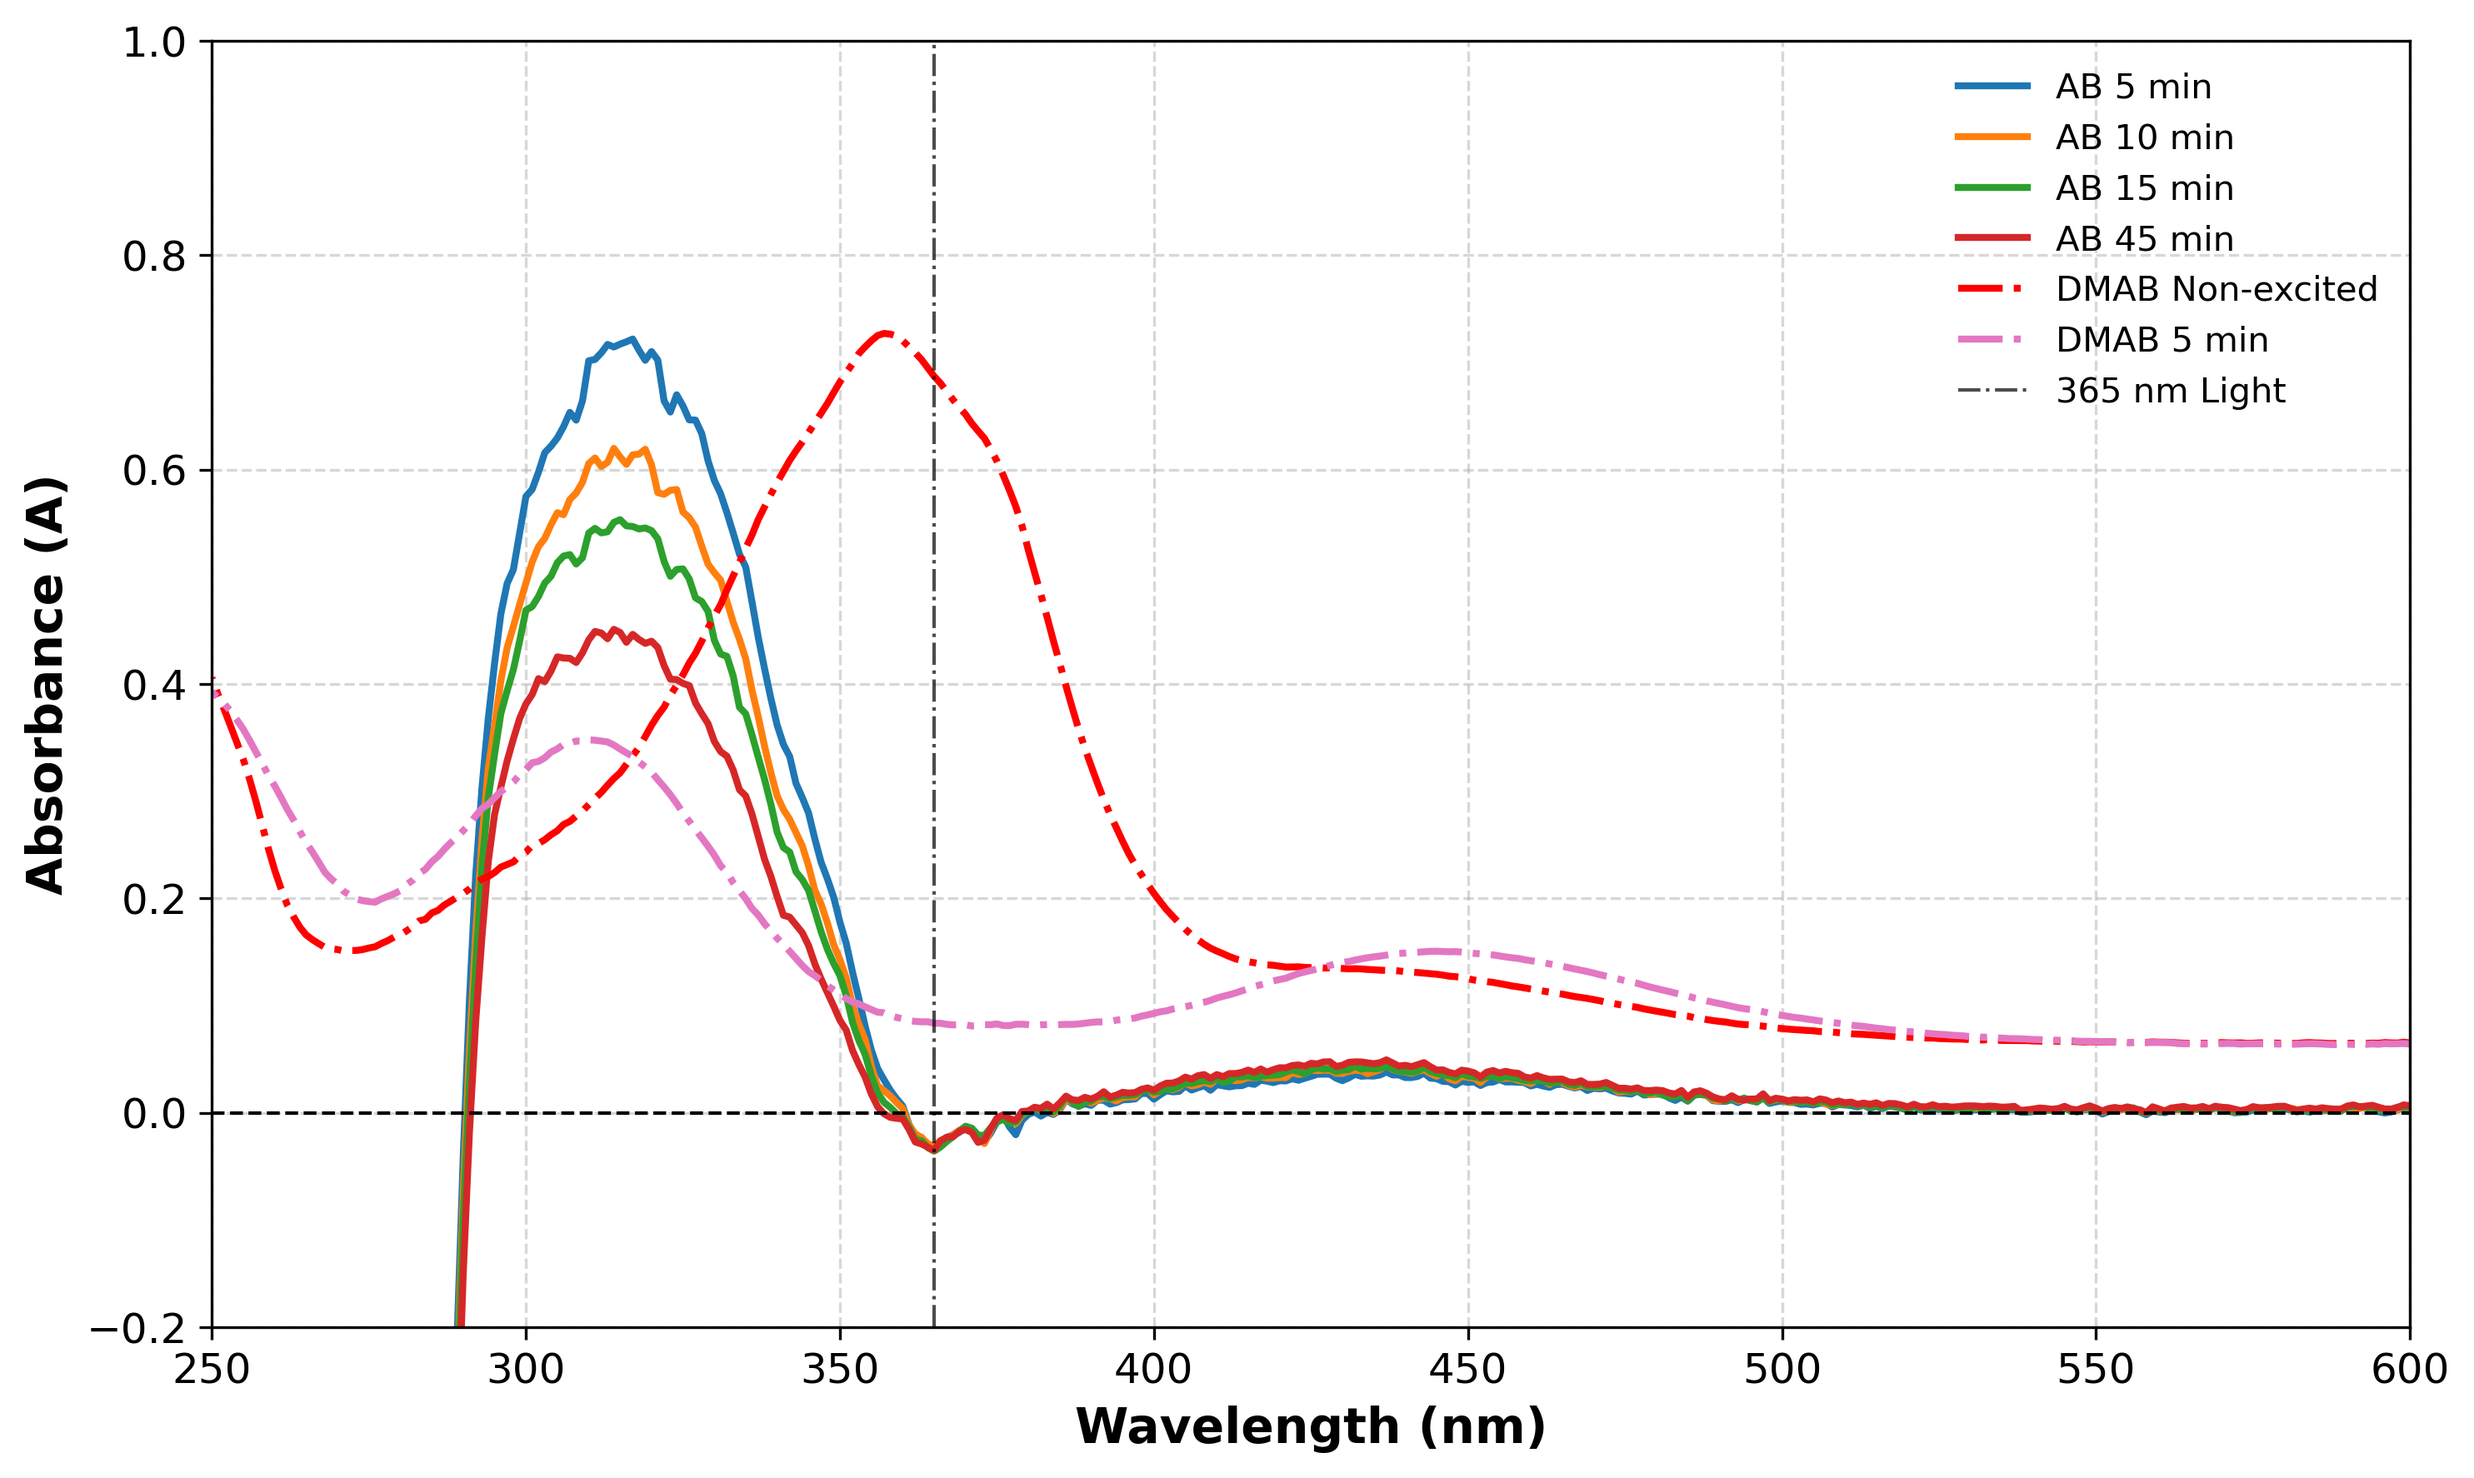
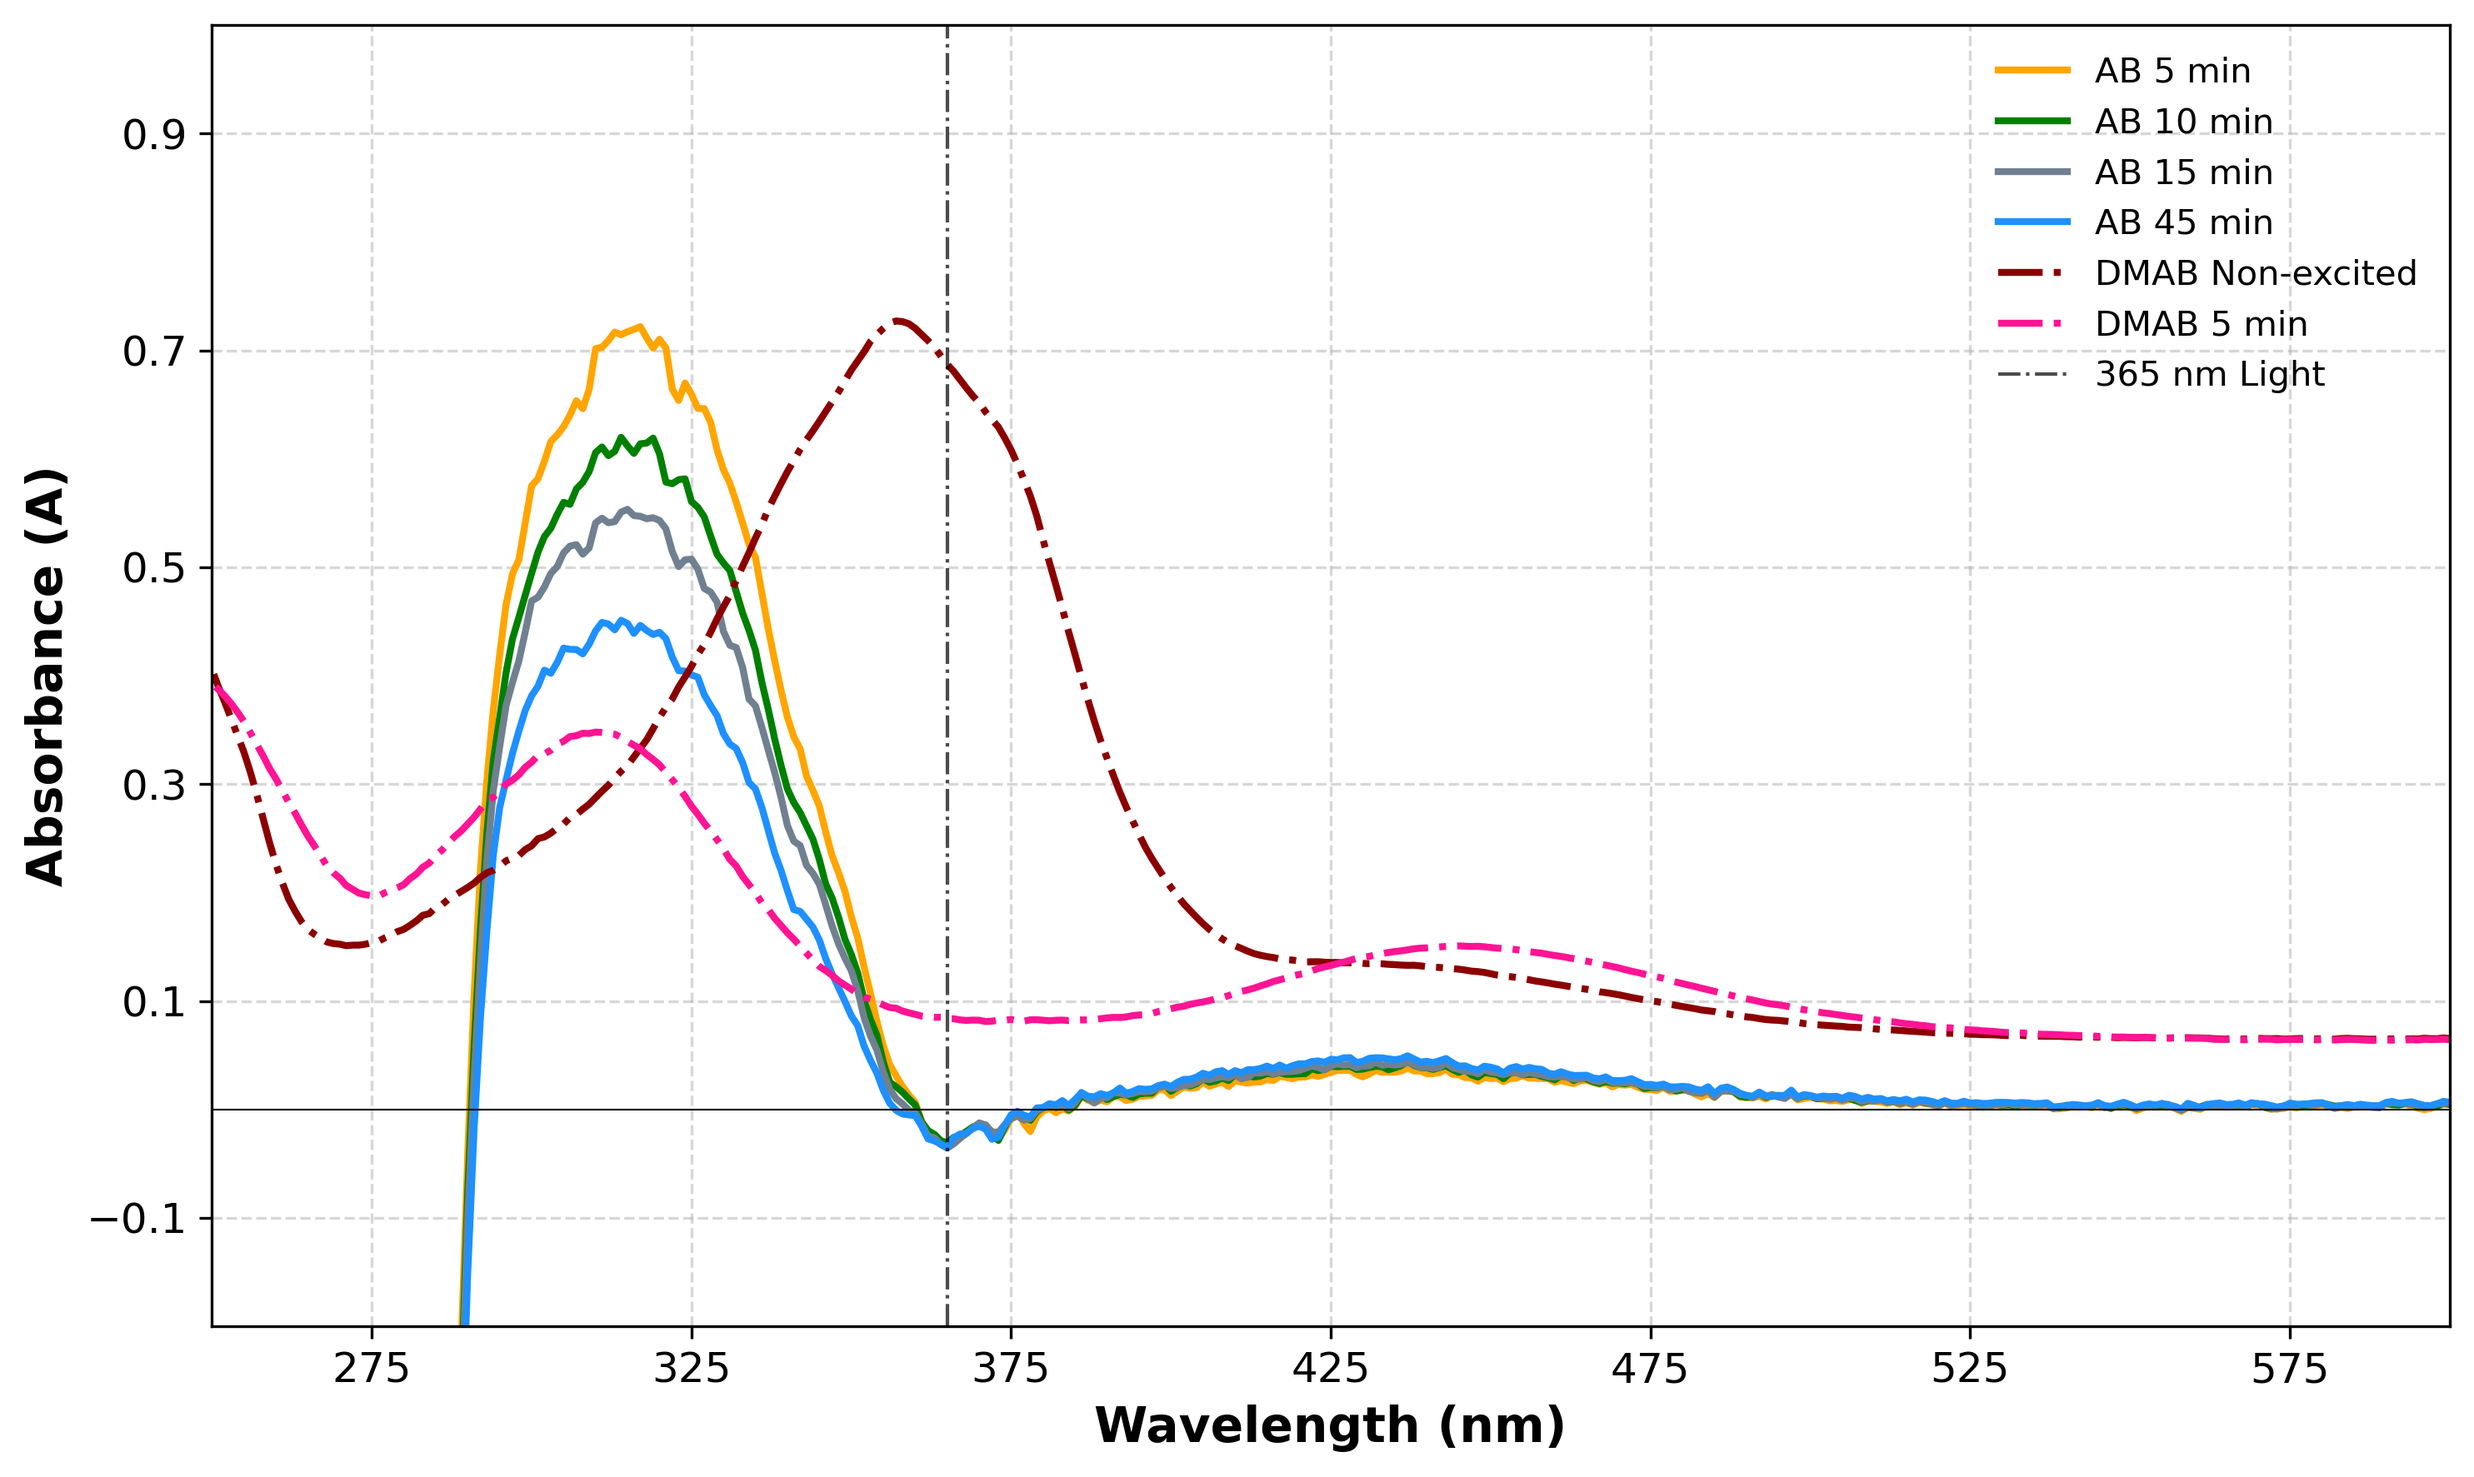
sync

diff --git a/report_plotting_final.py b/report_plotting_final.py
@@ -12,32 +12,32 @@ data_ab_45min = read_csv(r"Data/UV-aB/365nmn/aB 50uM 45min 365nm.Sample.Raw.csv"
 data_ab_60min = read_csv(r"Data/UV-aB/365nmn/aB 50um 60min 365nm.Sample.Raw.csv", base_line=True, base_line_path=baseline_path_ab)
 
 # Load DEAB datasets
-baseline_path_deab = r"/Users/oliverlohr/Documents/DBL-Energy/Data/UV-DEAB/DEAM/air base sample.csv"
+baseline_path_deab = r"Data/UV-DEAB/DEAM/air base sample.csv"
 data_deab_nonexited = read_csv(r"/Users/oliverlohr/Documents/DBL-Energy/Data/UV-DEAB/DEAM/DEAM non excited.Sample.Raw.csv", base_line=True, base_line_path=baseline_path_deab)
 data_deab_1min = read_csv(r"/Users/oliverlohr/Documents/DBL-Energy/Data/UV-DEAB/DEAM/DEAM 1 min.Sample.Raw.csv", base_line=True, base_line_path=baseline_path_deab)
 #data_deab_10min = read_csv(r"Data\UV-DMAB\ACN_365nm\DMAB ACN 10min 365nm.Sample.Raw.csv", base_line=False)
 
 # Plotting AB datasets
 plt.figure(figsize=(10, 6))
-plt.plot(data_ab_5min['nm'], data_ab_5min['A'], label='AB 5 min', color='#1f77b4', linestyle='-', linewidth=2)  # Blue, straight line
-plt.plot(data_ab_10min['nm'], data_ab_10min['A'], label='AB 10 min', color='#ff7f0e', linestyle='-', linewidth=2)  # Orange, straight line
-plt.plot(data_ab_15min['nm'], data_ab_15min['A'], label='AB 15 min', color='#2ca02c', linestyle='-', linewidth=2)  # Green, straight line
-plt.plot(data_ab_45min['nm'], data_ab_45min['A'], label='AB 45 min', color='#d62728', linestyle='-', linewidth=2)  # Red, straight line
+plt.plot(data_ab_5min['nm'], data_ab_5min['A'], label='AB 5 min', color='orange', linestyle='-', linewidth=2)  # Blue, straight line
+plt.plot(data_ab_10min['nm'], data_ab_10min['A'], label='AB 10 min', color='green', linestyle='-', linewidth=2)  # Orange, straight line
+plt.plot(data_ab_15min['nm'], data_ab_15min['A'], label='AB 15 min', color='slategrey', linestyle='-', linewidth=2)  # Green, straight line
+plt.plot(data_ab_45min['nm'], data_ab_45min['A'], label='AB 45 min', color='dodgerblue', linestyle='-', linewidth=2)  # Red, straight line
 # plt.plot(data_ab_60min['nm'], data_ab_60min['A'], label='AB 60 min', color='#9467bd', linestyle='-', linewidth=2)  # Purple, straight line
 
 # Plotting DMAB datasets
-plt.plot(data_deab_nonexited['nm'], data_deab_nonexited['A'], label='DMAB Non-excited', color='red', linestyle='-.', linewidth=2)  # Brown, dashed-dot
-plt.plot(data_deab_1min['nm'], data_deab_1min['A'], label='DMAB 5 min', color='#e377c2', linestyle='-.', linewidth=2)  # Pink, dashed-dot
+plt.plot(data_deab_nonexited['nm'], data_deab_nonexited['A'], label='DMAB Non-excited', color='darkred', linestyle='-.', linewidth=2)  # Brown, dashed-dot
+plt.plot(data_deab_1min['nm'], data_deab_1min['A'], label='DMAB 5 min', color='deeppink', linestyle='-.', linewidth=2)  # Pink, dashed-dot
 # plt.plot(data_dmab_10min['nm'], data_dmab_10min['A'], label='DMAB 10 min', color='#7f7f7f', linestyle='-.', linewidth=2)  # Gray, dashed-dot
 
 # Highlight 365 nm line
 plt.axvline(365, color='black', linestyle='-.', linewidth=1, alpha=0.7, label='365 nm Light')
-plt.axhline(0, color='black', linestyle='--', linewidth=1)
+plt.axhline(0, color='black', linewidth=0.5)
 # Formatting
 plt.xlabel('Wavelength (nm)', fontsize=14, fontweight='bold')
 plt.ylabel('Absorbance (A)', fontsize=14, fontweight='bold')
-plt.xticks(np.arange(250, 601, 50), fontsize=12)
-plt.yticks(np.arange(-0.2, 1.1, 0.2), fontsize=12)
+plt.xticks(np.arange(275, 601, 50), fontsize=12)
+plt.yticks(np.arange(-0.1, 1.1, 0.2), fontsize=12)
 plt.ylim(-0.2, 1)
 plt.xlim(250, 600)
 plt.grid(True, linestyle='--', alpha=0.5)
